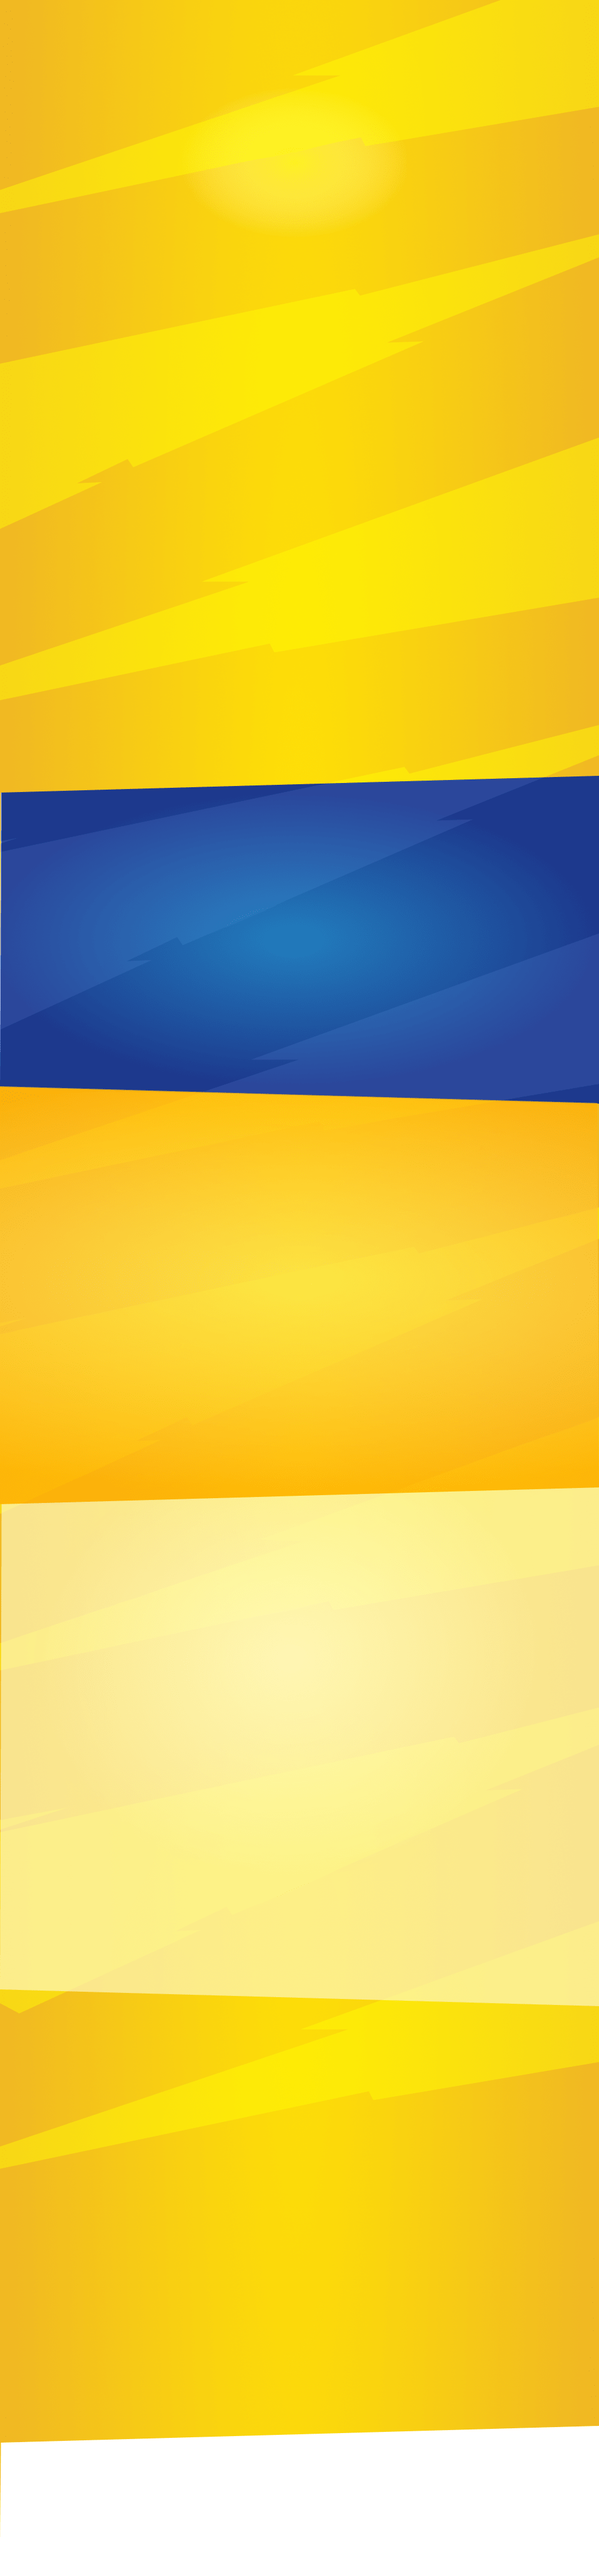
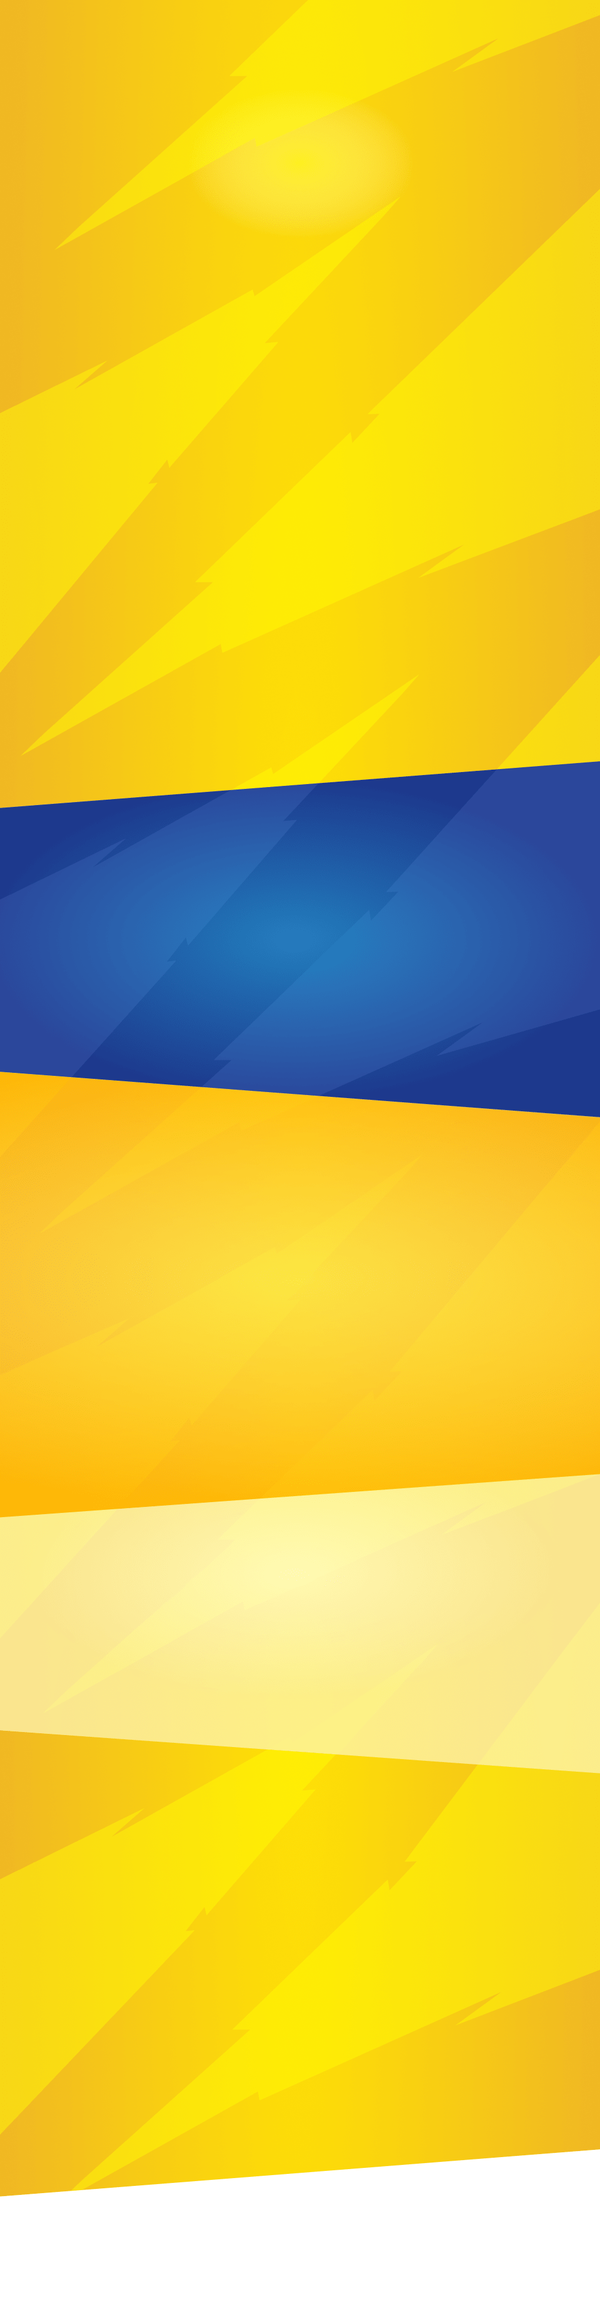
mobile bg

diff --git a/css/styles.css b/css/styles.css
@@ -1666,12 +1666,12 @@ table td.onCheck {
     }
 
     .wrapper.full {
-        background: url(../img/bg-mob.png) center no-repeat;
+        background: url(../img/bg1-mob.png) center no-repeat;
         background-size: cover;
     }
 
     .main-page {
-        min-height: 4290px;
+        min-height: 3861px;
     }
 
     .main-page.full {
